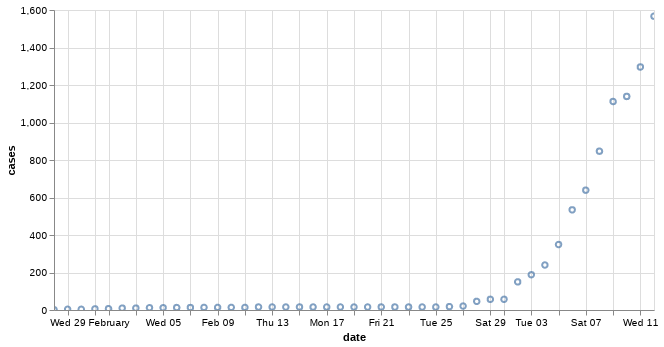
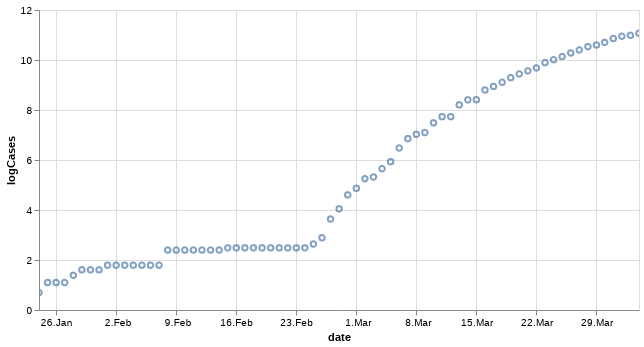
fixed images

diff --git a/_posts/2020-04-06-verdopplungsZeit.md b/_posts/2020-04-06-verdopplungsZeit.md
@@ -1,4 +1,5 @@
-
+# Title
+> summary
 
 
 # Bestimmung der Verdopplungszeit
@@ -9,7 +10,7 @@ Beim Vergleich der Corona-Pandemie in verschiedenen Ländern werden oft die abso
 
 Man kann die Verdopplungszeit berechnen, wenn man die Fallzahlen nicht direkt gegen die Zeit aufträgt, sondern die logarithmierten Werte. Bei exponentiellem Wachstum ergeben die logarithmierten Fallzahlen eine Gerade, aus deren Steigung man die Verdopplungszeit berechnen kann. Umso steiler die Gerade, umso kürzer die Verdopplungszeit.
 
-Im nächsten Abschnitt kommen die Ergebnisse für die Verdopplungzeiten, im Abschnitt danach dann der mathematische Zusammenhang, wie man sie bestimmt.
+Im nächsten Abschnitt kommen die Ergebnisse für die Verdopplungszeiten, im Abschnitt danach dann der mathematische Zusammenhang, wie man sie bestimmt.
 
 Ich verwende die Daten der Johns Hopkins University, und zwar folgende Datei:
 
@@ -27,7 +28,7 @@ c1
 
 
 
-![png](2020-04-06-verdopplungsZeit_files/output_2_0.png)
+![png](/images/verdopplungsZeit_files/output_2_0.png)
 
 
 
@@ -40,7 +41,7 @@ c2
 
 
 
-![png](2020-04-06-verdopplungsZeit_files/output_4_0.png)
+![png](/images/verdopplungsZeit_files/output_4_0.png)
 
 
 
@@ -53,13 +54,13 @@ lg
 
 
 
-![png](2020-04-06-verdopplungsZeit_files/output_6_0.png)
+![png](/images/verdopplungsZeit_files/output_6_0.png)
 
 
 
 Einen Punkt (11.3.) hab ich außen vor gelassen, da er offenbar ein Ausreißer ist.
 
-Man erkennt die linearen Abschnitte sehr gut. Das sind Zeitabschnitte, in denen es exponentielles Wachstum mit eine relativ konstanten Verdopplungszeit gegeben hat. Die Verdopplungzeit nimmt im Lauf der Zeit , d.h. von Abschnitt zu Abschnitt, immer weiter ab. Das würde man auch erwarten, wenn die Maßnahmen greifen. Eine Anomalie zeigt lediglich die gelbe Gerade. Hier streuen die Werte allerding auch deutlich, so dass das abweichende Verhalten vielleicht auf die zufälligen Schwankungen zurückzufühen ist.
+Man erkennt die linearen Abschnitte sehr gut. Das sind Zeitabschnitte, in denen es exponentielles Wachstum mit einer relativ konstanten Verdopplungszeit gegeben hat. Die Verdopplungszeit nimmt im Lauf der Zeit, d.h. von Abschnitt zu Abschnitt, immer weiter ab. Das würde man auch erwarten, wenn die Maßnahmen greifen. Eine Anomalie zeigt lediglich die gelbe Gerade. Hier streuen die Werte allerding auch deutlich, so dass das abweichende Verhalten vielleicht auf die zufälligen Schwankungen zurückzuführen ist.
 
 Die deutlichen Knickpunkte sind schon auffällig. Wie sieht es also bei unseren Nachbarn aus?
 
@@ -72,7 +73,7 @@ fr
 
 
 
-![png](2020-04-06-verdopplungsZeit_files/output_8_0.png)
+![png](/images/verdopplungsZeit_files/output_8_0.png)
 
 
 
@@ -87,7 +88,7 @@ it
 
 
 
-![png](2020-04-06-verdopplungsZeit_files/output_10_0.png)
+![png](/images/verdopplungsZeit_files/output_10_0.png)
 
 
 
@@ -100,7 +101,7 @@ lg
 
 
 
-![png](2020-04-06-verdopplungsZeit_files/output_12_0.png)
+![png](/images/verdopplungsZeit_files/output_12_0.png)
 
 
 
@@ -113,11 +114,11 @@ sp
 
 
 
-![png](2020-04-06-verdopplungsZeit_files/output_14_0.png)
+![png](/images/verdopplungsZeit_files/output_14_0.png)
 
 
 
-Im oberen Bereich lassen sich linerare Bereiche erkennen. Un nun wieder der Graph mit den berechneten Geraden.
+Am oberen Ende lassen sich lineare Bereiche erkennen. Und nun wieder der Graph mit den berechneten Geraden.
 
 ```python
 lg
@@ -126,11 +127,11 @@ lg
 
 
 
-![png](2020-04-06-verdopplungsZeit_files/output_16_0.png)
+![png](/images/verdopplungsZeit_files/output_16_0.png)
 
 
 
-Sieht man sich die jüngsten Verdopplungszeiten im Vergleich an, dann hat Italien mit 16,9 Tagen den besten Wert. Deutlich entfernt kommt Deutschland mit 8,9 Tagen, dicht gefolgt von Spanien mit 8,1 Tagen. Der Wert für Frankreich läßt sich mit dieser Methode nicht sicher bestimmen, da die Steigung zwischen den einzelnen Punkten am Ende zu stark streuen.
+Sieht man sich die jüngsten Verdopplungszeiten im Vergleich an, dann hat Italien mit 16,9 Tagen den besten Wert. Deutlich entfernt kommt Deutschland mit 8,9 Tagen, dicht gefolgt von Spanien mit 8,1 Tagen. Der Wert für Frankreich lässt sich mit dieser Methode nicht sicher bestimmen, da die Steigung zwischen den einzelnen Punkten am Ende zu stark streuen.
 
 ## Mathematischer Hintergrund
 
@@ -141,7 +142,7 @@ Wie misst man die Verdopplungszeit? Man kann versuchen, die Verdopplungszeit dir
 
 Dazu wählt man sich dazu einen Startzeitpunkt aus und sieht nach, nach wieviel Tagen sich die Fallzahl verdoppelt hat. Dann nimmt man den Startzeitpunkt plus 1 und macht das gleiche, usw. Das ist aufgrund der zufälligen Schwankungen, denen die Fallzahlen unterliegen, recht mühsam. Außerdem ist es schwierig, zu erkennen, ob sich die Entwicklung wirklich auf einem exponentiellen Pfad befindet.
 
-Deshalb ist es günstiger den Logarithmus zu verwenden. Der Logarithmus (genauer der natürliche Logarithmus, den wir hier verwenden) ist die Umkehrfunktion der Exponentialfunktion. Das bedeutet, dass für jede Zahl x gilt $\ln(e^x) = x$. Gehen wir also von einer exponentiellen Enwicklung der Fallzahlen $N(t)$ aus, so gilt:
+Deshalb ist es günstiger den Logarithmus zu verwenden. Der Logarithmus (genauer der natürliche Logarithmus, den wir hier verwenden) ist die Umkehrfunktion der Exponentialfunktion. Das bedeutet, dass für jede Zahl x gilt $\ln(e^x) = x$. Gehen wir also von einer exponentiellen Entwicklung der Fallzahlen $N(t)$ aus, so gilt:
 
 $$N(t) = N_0 \cdot e^{\alpha \cdot t}$$
 
@@ -153,11 +154,11 @@ also:
 
 $$\ln (N(t)) = \ln (N_0) + \alpha \cdot t$$
 
-Wenn wir also $\ln (N(t))$, d.h. die logarithmierten Infiziertenzahlen, gegen die Zeit auftragen, dann erhalten wir einen Graphen der $\ln (N_0) + \alpha \cdot t$ als Funktion der Zeit zeigt. Das ist aber einen Gerade mit dem Achsenabschnitt $\ln (N_0)$ und der Steigung $\alpha$. Aus $\alpha$ können wir dann die Verdopplungszeit $\tau$ über folgende Beziehung ausrechnen:
+Wenn wir also $\ln (N(t))$, d.h. die logarithmierte Anzahl der Infizierten, gegen die Zeit auftragen, dann erhalten wir einen Graphen der $\ln (N_0) + \alpha \cdot t$ als Funktion der Zeit zeigt. Das ist aber einen Gerade mit dem Achsenabschnitt $\ln (N_0)$ und der Steigung $\alpha$. Aus $\alpha$ können wir dann die Verdopplungszeit $\tau$ über folgende Beziehung ausrechnen:
 
 $$ \tau = \frac{\ln 2}{\alpha }$$
 
-Das erhält man direkt aus dem Ausdruck $ \alpha = \frac{\ln 2}{ \tau}$, den ich im  Post vom 26.03.2020 hergeleitet habe. Die Verdopplungzeit $\tau$ ist also umso kleiner, je steiler die Gerade (d.h. je größer $\alpha$) ist.
+Das erhält man direkt aus dem Ausdruck $ \alpha = \frac{\ln 2}{ \tau}$, den ich im  Post vom 26.03.2020 hergeleitet habe. Die Verdopplungszeit $\tau$ ist also umso kleiner, je steiler die Gerade (d.h. je größer $\alpha$) ist.
 
 Um die Verdopplungszeit zu erhalten, muss man lediglich die Steigung der Geraden bestimmen. Das geht klassisch auf Papier, indem man nach Augenmaß die beste Gerade einzeichnet und die Steigung über ein Steigungsdreieck bestimmt. Oder man verwendet eine Funktion, die einem eine solche Gerade ausrechnet und Achsenabschnitt und Steigung als Output liefert. So habe ich es oben gemacht.
 
